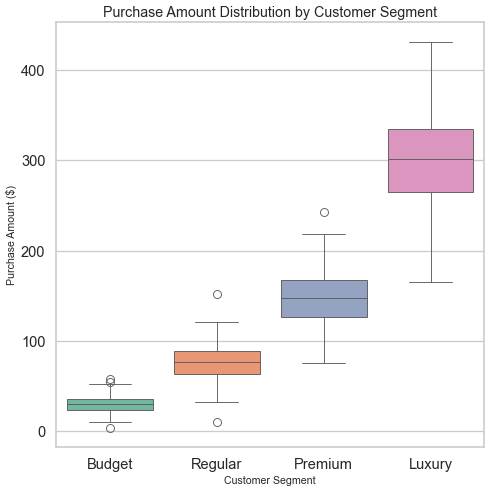
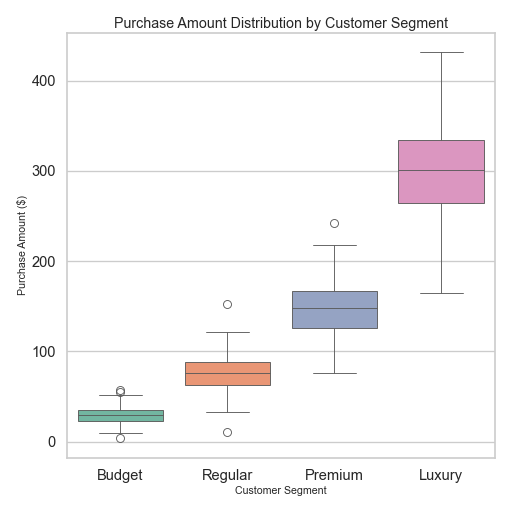
.

Changed region(s): [[0.0, 0.0, 1.0, 1.0], [0.4286, 0.5793, 0.4592, 0.6098]]

diff --git a/chart.py b/chart.py
@@ -48,4 +48,4 @@ plt.ylabel("Purchase Amount ($)", fontsize=12)
 
 # Save the figure
 plt.tight_layout()
-plt.savefig("chart.png", dpi=64, bbox_inches='tight')
+plt.savefig("chart.png", dpi=64)
